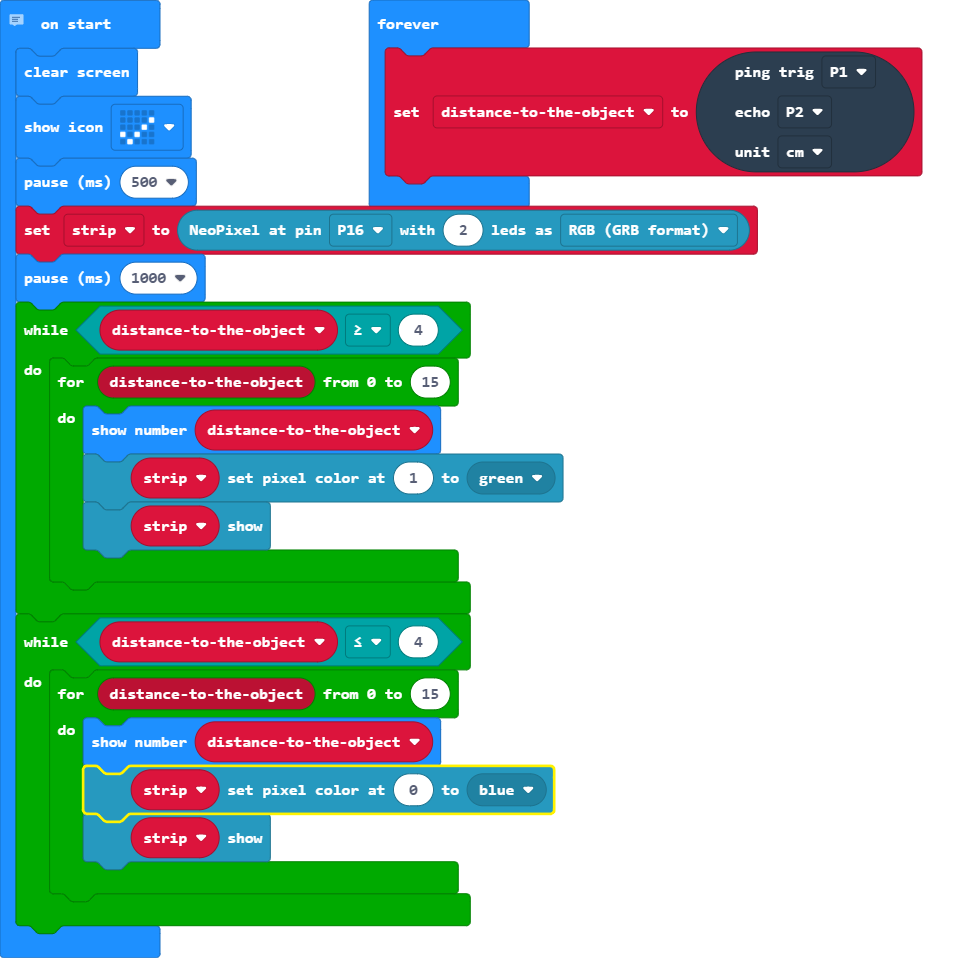
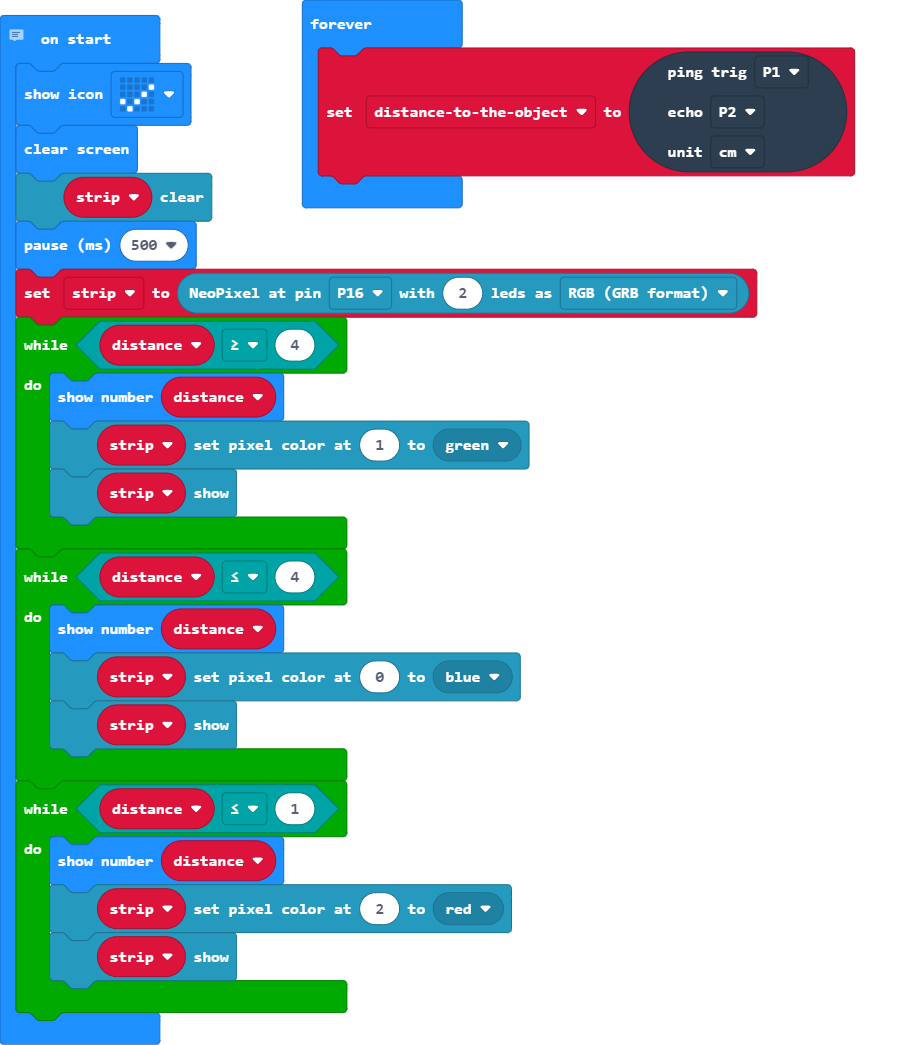
arranged some blocks to different areas

diff --git a/main.ts b/main.ts
@@ -2,24 +2,27 @@
 // Created on: 10/2/20
 // This program combines Neopixels and distance sensor
 let distancetotheobject = 0
-basic.clearScreen()
+let distance = 0
+let strip2: neopixel.Strip = null
 basic.showIcon(IconNames.Yes)
+basic.clearScreen()
+strip2.clear()
 basic.pause(500)
-let strip2 = neopixel.create(DigitalPin.P16, 2, NeoPixelMode.RGB)
-basic.pause(1000)
-while (distancetotheobject >= 4) {
-    for (let distancetotheobject2 = 0; distancetotheobject2 <= 15; distancetotheobject2++) {
-        basic.showNumber(distancetotheobject2)
-        strip2.setPixelColor(1, neopixel.colors(NeoPixelColors.Green))
-        strip2.show()
-    }
+strip2 = neopixel.create(DigitalPin.P16, 2, NeoPixelMode.RGB)
+while (distance >= 4) {
+    basic.showNumber(distance)
+    strip2.setPixelColor(1, neopixel.colors(NeoPixelColors.Green))
+    strip2.show()
 }
-while (distancetotheobject <= 4) {
-    for (let distancetotheobject2 = 0; distancetotheobject2 <= 15; distancetotheobject2++) {
-        basic.showNumber(distancetotheobject2)
-        strip2.setPixelColor(0, neopixel.colors(NeoPixelColors.Blue))
-        strip2.show()
-    }
+while (distance <= 4) {
+    basic.showNumber(distance)
+    strip2.setPixelColor(0, neopixel.colors(NeoPixelColors.Blue))
+    strip2.show()
+}
+while (distance <= 1) {
+    basic.showNumber(distance)
+    strip2.setPixelColor(2, neopixel.colors(NeoPixelColors.Red))
+    strip2.show()
 }
 basic.forever(function () {
     distancetotheobject = sonar.ping(
